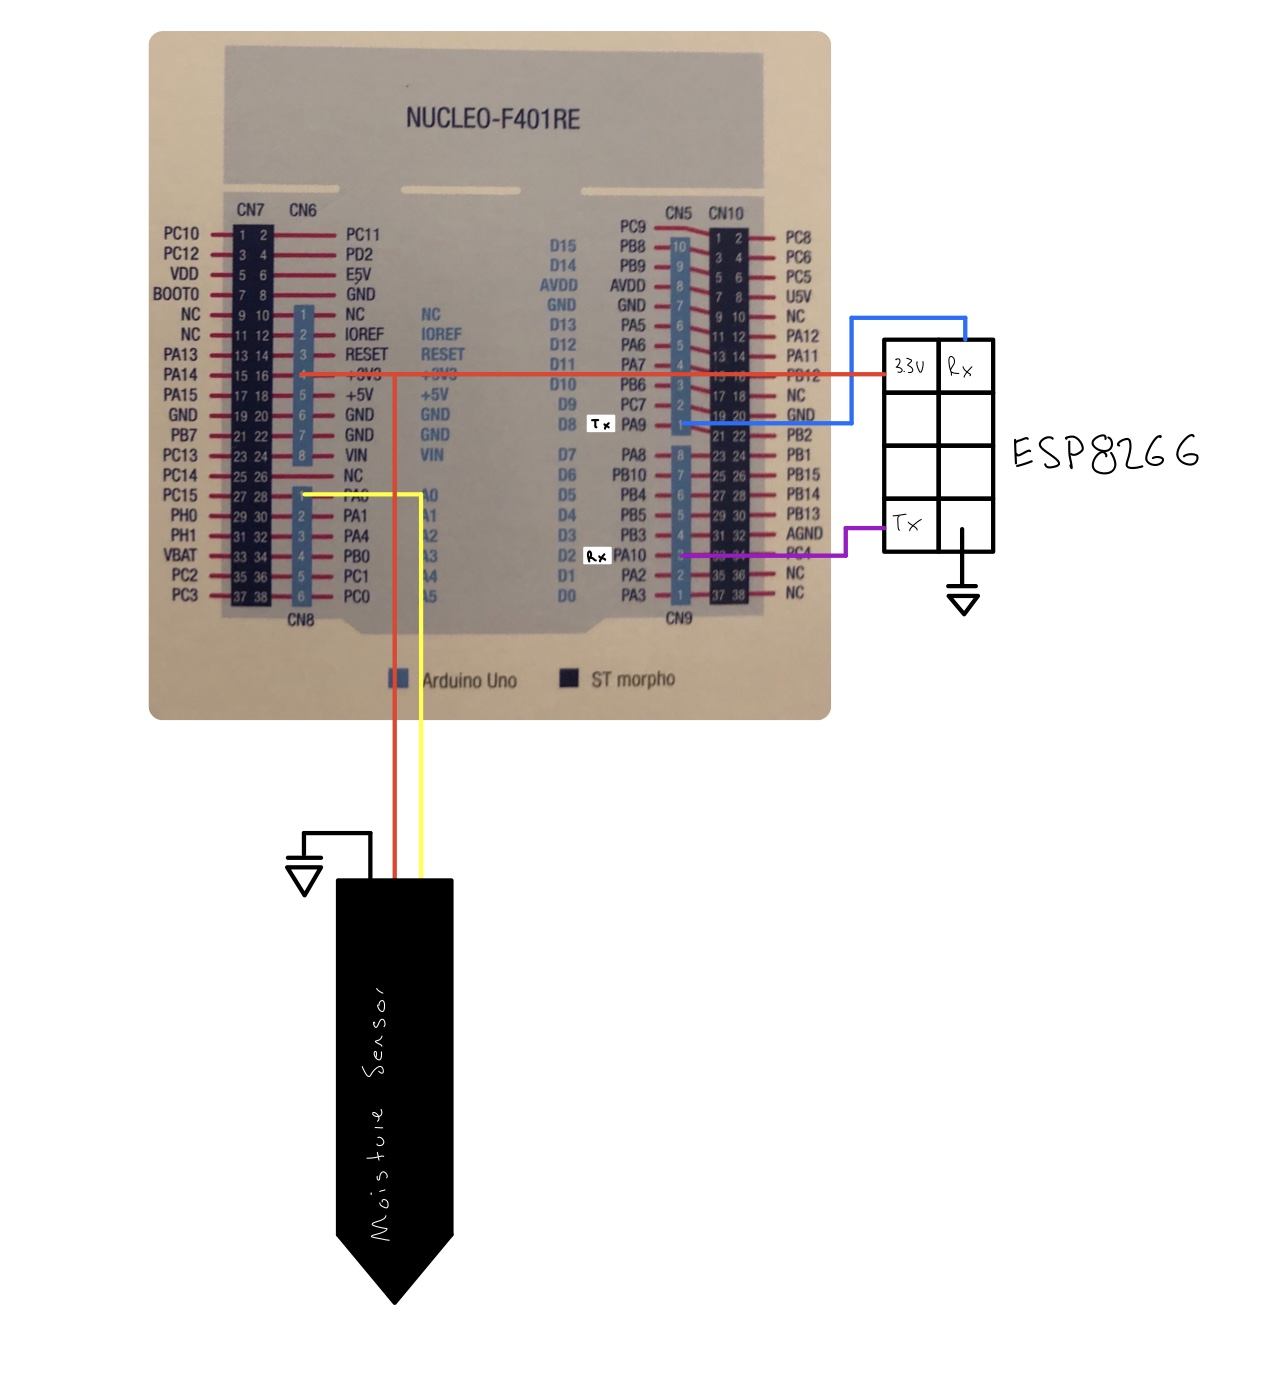
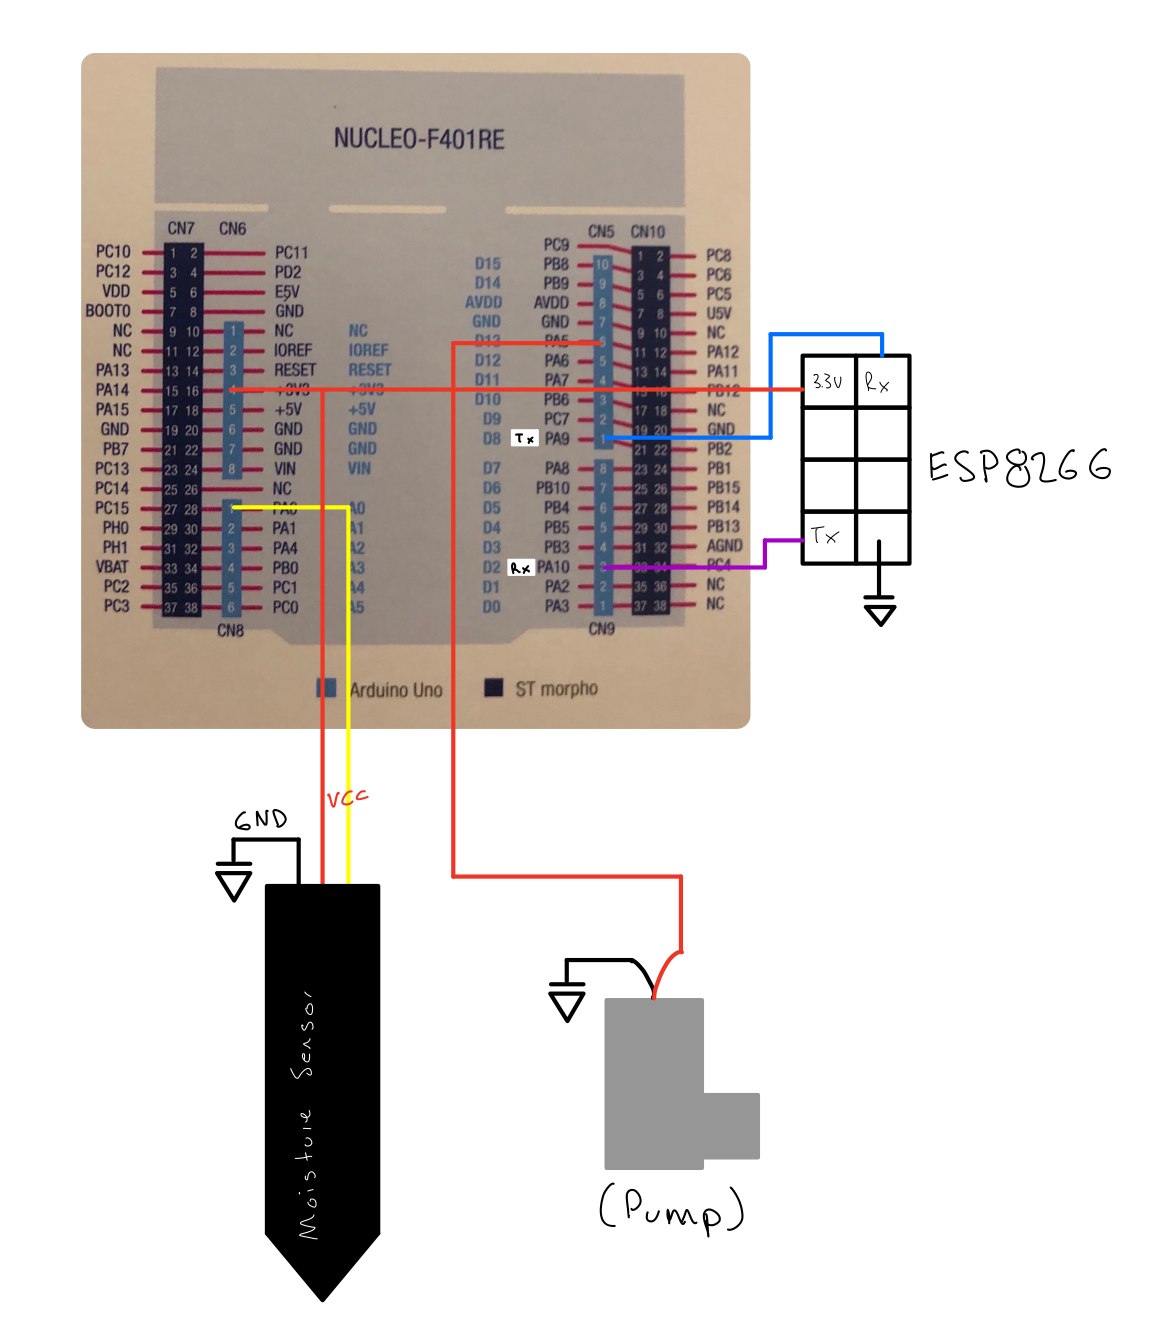
add moisture sensor and pump logic

Changed region(s): [[0.0624, 0.0, 0.9679, 0.9813]]

diff --git a/src/main.c b/src/main.c
@@ -1,14 +1,10 @@
-/**
-    Main: Contains main function
-    @file main.c
-    @author Josh Brake
-    @version 1.0 10/7/2020
-*/
-
 #include "STM32F401RE.h"
 #include "main.h"
 #include <string.h>
 #include "UARTRingBuffer.h"
+#include "Moisture_Sensor.h"
+
+#define initial_probe_interval 60
 
 void sendCommand(uint8_t* cmd) {
     USART_TypeDef * ESP_USART = id2Port(ESP_USART_ID);
@@ -67,11 +63,6 @@ void serveWebpage(uint8_t str []) {
     sendCommand(str);
 }
 
-uint16_t moisturePercentage(uint16_t moistureADC){
-    
-    return moistureADC
-}
-
 /** Map USART1 IRQ handler to our custom ISR
  */
 void USART1_IRQHandler(){
@@ -86,6 +77,11 @@ void USART2_IRQHandler(){
     usart_ISR2(TERM_USART);
 }
 
+void TIM3_IRQHandler() {
+    probe();
+    TIM3->SR &= ~(0x1); // Clear UIF
+}
+
 int main(void) {
     // Configure flash latency and set clock to run at 84 MHz
     configureFlash();
@@ -96,11 +92,9 @@ int main(void) {
 
     // Initialize timer
     RCC->APB1ENR |= (1 << 0); // TIM2_EN
+    RCC->APB1ENR |= (1 << 1); // TIM3_EN
     initTIM(DELAY_TIM);
-
-    // Set up LED pin as output 
-    pinMode(GPIOA, GPIO_PA5, GPIO_INPUT);
-    pinMode(GPIOA, GPIO_PA6, GPIO_OUTPUT);
+    setTimer(TIM3, initial_probe_interval); // Probe every minute
 
     // Configure ESP and Terminal UARTs
     USART_TypeDef * ESP_USART = initUSART(ESP_USART_ID, 115200);
@@ -112,14 +106,24 @@ int main(void) {
     // Enable interrupts globally
     __enable_irq();
 
-    // Configure interrupt for USART1 and USART2
+    // Configure interrupt for TIM3, USART1 and USART2
+    *NVIC_ISER0 |= (1 << 29);
     *NVIC_ISER1 |= (1 << 5);
     *NVIC_ISER1 |= (1 << 6);
     ESP_USART->CR1.RXNEIE = 1;
+    TIM3->DIER |= 1;
     
     // Initialize ring buffer
     init_ring_buffer();
     flush_buffer();
+
+    init_moisture_sensor();
+    flush_moisture_buffer();
+    setWaterTime(30); // Initial water time set to 30 secs, can be changed through website
+    setProbeInterval(initial_probe_interval); // Set probe interval
+
+    // Initialize moisture threshold to 10%
+    setMoistureThreshold(10);
 
     // Initialize ESP
     delay_millis(DELAY_TIM, 1000);
@@ -129,8 +133,6 @@ int main(void) {
     // Set up temporary buffers for requests
     uint8_t volatile http_request[BUFFER_SIZE] = "";
     uint8_t volatile temp_str[BUFFER_SIZE] = "";
-    uint16_t samples = 1;
-    uint16_t sound[samples];
     
     while(1) {
         // Clear temp_str buffer
@@ -165,16 +167,23 @@ int main(void) {
                 serveWebpage("<meta name=\"viewport\" content=\"width=device-width, initial-scale=1.0\">");
                 serveWebpage("<title>ESP8266 Demo</title>");
                 serveWebpage("<style> body {background-color: #1c87c9; text-align: center;}</style>");
-                serveWebpage("<h3>ESP8266</h3>");
-                serveWebpage("<p>Welcome to MicroPs IoT lab!</p>");
+                serveWebpage("<h3>IoT Plant Watering</h3>");
+
+                serveWebpage("<p>Last measured values: ");
+                for (int i = 0; i < _moisture_buffer->tail; ++i) {
+                    uint8_t val[10] = "";
+                    sprintf(val, "%d, ", _moisture_buffer->buffer[i]);
+                    serveWebpage(val);
+                }
+                serveWebpage("</p>");
 
                 // Read if LED is on or off and display to webpage.
-                if(record_req){
-                    serveWebpage("<p>Recording in process, wait a few seconds</p>");
-                    serveWebpage("<form action=\"REQ=REL\"><input type=\"submit\" value = \"Reload\"></form>");
-                } else {
-                    serveWebpage("<form action=\"REQ=REC\"><input type=\"submit\" value = \"Begin Recording\"></form>");
-                }
+                // if(record_req){
+                //     serveWebpage("<p>Recording in process, wait a few seconds</p>");
+                //     serveWebpage("<form action=\"REQ=REL\"><input type=\"submit\" value = \"Reload\"></form>");
+                // } else {
+                //     serveWebpage("<form action=\"REQ=REC\"><input type=\"submit\" value = \"Begin Recording\"></form>");
+                // }
 
                 // Close connection
                 sendCommand("AT+CIPCLOSE=0");
@@ -190,16 +199,6 @@ int main(void) {
                     sendString(TERM_USART, "\r\n");
                 }
                 */
-               if (record_req) {
-                    uint16_t moistureADC = ADCmeasure();
-                    //sendString(TERM_USART, "\r\nV[:100]=");
-                    
-                    uint8_t moisture[10] = "";
-                    sprintf(moisture, "%d, ", moisturePercentage(moistureADC));
-                    sendString(TERM_USART, moisture);
-                    
-                    sendString(TERM_USART, "\r\n");
-                }
             }
         }
     }

diff --git a/lib/Moisture_Sensor/Moisture_Sensor.c b/lib/Moisture_Sensor/Moisture_Sensor.c
@@ -1,0 +1,62 @@
+#include "Moisture_Sensor.h"
+#include "STM32F401RE.h"
+#include <string.h>
+
+moisture_buffer buffer = {{0}, 0};
+
+void init_moisture_sensor(){
+    _moisture_buffer = &buffer;
+    pinMode(GPIOA, WATER_PUMP, GPIO_INPUT);
+}
+
+uint8_t moisturePercentage(uint16_t moistureADC){
+    return (moistureADC - wet)/diff;
+}
+
+void probe(){
+    uint16_t moistureADC = ADCmeasure();
+    uint8_t moisture = moisturePercentage(moistureADC);
+    _moisture_buffer->buffer[_moisture_buffer->tail] = moisture;
+    ++_moisture_buffer->tail;
+    waterPlant(moisture);
+}
+
+void waterPlant(uint8_t moisture) {
+    if (moisture < moistureThreshold) {
+        // Flush buffer?
+        TIM3->DIER &= ~1;
+        
+        // Water plant by turning pump on
+        digitalWrite(GPIOA, WATER_PUMP, 1);
+
+        // delay micros is actualy delay secs for tim3
+        delay_micros(TIM3, WATER_TIME_SECONDS);
+
+        // End plant watering
+        digitalWrite(GPIOA, WATER_PUMP, 0);
+
+        // Reset AAR timer
+        setTimer(TIM3, PROBE_INTERVAL);
+
+        // Flush buffer?
+        TIM3->DIER |= 1;
+    }
+}
+
+void setMoistureThreshold(uint8_t moisture) {
+    moistureThreshold = moisture;
+}
+
+void setWaterTime(uint8_t waterTimeSeconds) {
+    WATER_TIME_SECONDS = waterTimeSeconds;
+}
+
+void setProbeInterval(uint8_t probeInterval) {
+    PROBE_INTERVAL = probeInterval;
+    setTimer(TIM3, PROBE_INTERVAL);
+}
+
+void flush_moisture_buffer(void){
+    memset(_moisture_buffer->buffer, '\0', MOISTURE_BUFFER_SIZE);
+    _moisture_buffer->tail = 0;
+}

diff --git a/lib/Moisture_Sensor/Moisture_Sensor.h b/lib/Moisture_Sensor/Moisture_Sensor.h
@@ -1,0 +1,51 @@
+
+#ifndef MOISTURE_SENSOR_H
+#define MOISTURE_SENSOR_H
+
+#include "stdint.h"
+#define MOISTURE_BUFFER_SIZE 512
+
+//Moisture defines
+#define dry 3425
+#define wet 1900
+#define diff dry - wet
+
+#define WATER_PUMP GPIO_PA5
+
+/** Structure for ring_buffer.
+    Contains a uint8_t buffer of length UART_BUFFER_SIZE to hold a string as
+    well as two integers to hold the value of the head and tail of the buffer
+    to indicate what characters have or have not been read out.
+ */
+typedef struct {
+    uint8_t buffer[MOISTURE_BUFFER_SIZE];
+    volatile uint16_t tail;
+} moisture_buffer;
+
+moisture_buffer * _moisture_buffer;
+uint8_t moistureThreshold;
+uint16_t PROBE_INTERVAL;
+uint16_t WATER_TIME_SECONDS;
+
+/** Initialize the moisture buffer and GPIO
+ */
+void init_moisture_sensor();
+
+/** Convert ADC measure to percentage
+ */
+uint8_t moisturePercentage(uint16_t moistureADC);
+
+/** Probe moisture sensor
+ */
+void probe();
+
+/** Flush the buffer
+    (i.e., set all its contents to 0 and reset the tail).
+ */
+void flush_moisture_buffer(void);
+
+void setMoistureThreshold(uint8_t moisture);
+void setWaterTime(uint8_t waterTimeSeconds);
+void setProbeInterval(uint8_t probeInterval);
+
+#endif

diff --git a/lib/STM32F401RE_ADC/STM32F401RE_ADC.c b/lib/STM32F401RE_ADC/STM32F401RE_ADC.c
@@ -22,20 +22,20 @@ void ADCInit() {
     ADC1->SQR3 = 0;
 }
 
-void ADCmeasure(uint16_t* array, int length) {
-    ADC1->CR2.ADON = 1;
+// void ADCmeasure(uint16_t* array, int length) {
+//     ADC1->CR2.ADON = 1;
     
-    ADC1->CR2.CONT = 1;
-    ADC1->CR2.SWSTART = 1;
+//     ADC1->CR2.CONT = 1;
+//     ADC1->CR2.SWSTART = 1;
 
-    for (int i = 0; i < length; ++i) {
-        while(!ADC1->SR.EOC);
-        array[i] = ADC1->DR.DR;
-    }
+//     for (int i = 0; i < length; ++i) {
+//         while(!ADC1->SR.EOC);
+//         array[i] = ADC1->DR.DR;
+//     }
     
-    ADC1->CR2.CONT = 0;
-    ADC1->CR2.ADON = 0;
-}
+//     ADC1->CR2.CONT = 0;
+//     ADC1->CR2.ADON = 0;
+// }
 
 uint16_t ADCmeasure() {
     ADC1->CR2.ADON = 1;

diff --git a/lib/STM32F401RE_TIM/STM32F401RE_TIM.c b/lib/STM32F401RE_TIM/STM32F401RE_TIM.c
@@ -33,3 +33,20 @@ void delay_micros(TIM_TypeDef * TIMx, uint32_t us){
 
   while(!(TIMx->SR & 1)); // Wait for UIF to go high
 }
+
+void setTimer(TIM_TypeDef * TIMx, uint32_t s) {
+  // Set prescaler to give 1 ms time base
+  uint32_t psc_div = (uint32_t) ((SystemCoreClock/1e3)-1);
+
+  // Set prescaler division factor
+  TIMx->PSC = (psc_div - 1);
+  // Generate an update event to update prescaler value
+  TIMx->EGR |= 1;
+  // Enable counter
+  TIMx->CR1 |= 1; // Set CEN = 1
+
+  TIMx->ARR = s*1000; // Set timer max count
+  TIMx->EGR |= 1;     // Force update
+  TIMx->SR &= ~(0x1); // Clear UIF
+  TIMx->CNT = 0;      // Reset count
+}

diff --git a/src/main.h b/src/main.h
@@ -50,10 +50,6 @@ typedef struct {
 #define CMD_DELAY_MS 30
 #define BUFFER_SIZE 2048
 
-//Moisture defines
-#define dry 3425
-#define wet 1900
-
 ///////////////////////////////////////////////////////////////////////////////
 // IRQn_Type and __NVIC_PRIO_BITS from stm32f401xe.h
 ///////////////////////////////////////////////////////////////////////////////

diff --git a/lib/STM32F401RE_TIM/STM32F401RE_TIM.h b/lib/STM32F401RE_TIM/STM32F401RE_TIM.h
@@ -72,5 +72,6 @@ typedef struct
 void initTIM(TIM_TypeDef * TIMx);
 void delay_millis(TIM_TypeDef * TIMx, uint32_t ms);
 void delay_micros(TIM_TypeDef * TIMx, uint32_t us);
+void setTimer(TIM_TypeDef * TIMx, uint32_t s);
 
 #endif
